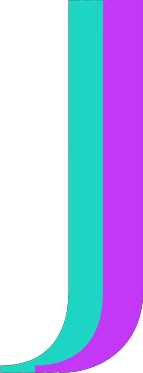
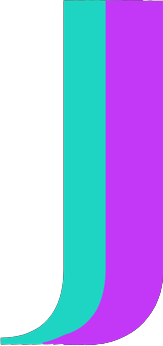
removed extra images

Changed region(s): [[0.0, 0.0, 1.0, 1.0]]

diff --git a/src/Pages/Landing.jsx b/src/Pages/Landing.jsx
@@ -1,13 +1,14 @@
 import React from "react";
 import Codefont from "../components/Codefont";
 import FillBtn from "../components/FillBtn";
-import J from "../media/J4.png";
-import M from "../media/M.png";
 import { arrayToCrash } from "../functions/crashTextFuncs";
 import ScrollIndicators from "../components/ScrollIndicators";
 import {  scroller } from "react-scroll";
+const M = require("../media/M.png");
+const J =  require("../media/J.png");
 
 const Landing = () => {
+  
   const mainText = [
     "Hi, ",
     "<br/>",

diff --git a/src/components/ContactForm.jsx b/src/components/ContactForm.jsx
@@ -34,7 +34,7 @@ const ContactForm = ({ className }) => {
       /^(([^<>()[\]\\.,;:\s@\"]+(\.[^<>()[\]\\.,;:\s@\"]+)*)|(\".+\"))@((\[[0-9]{1,3}\.[0-9]{1,3}\.[0-9]{1,3}\.[0-9]{1,3}\])|(([a-zA-Z\-0-9]+\.)+[a-zA-Z]{2,}))$/
       );
       
-  };
+  };  
   const formValidation = () => {
     validateEmail(messageInfo.email) !== null
       ? setEmailFlag(true)
